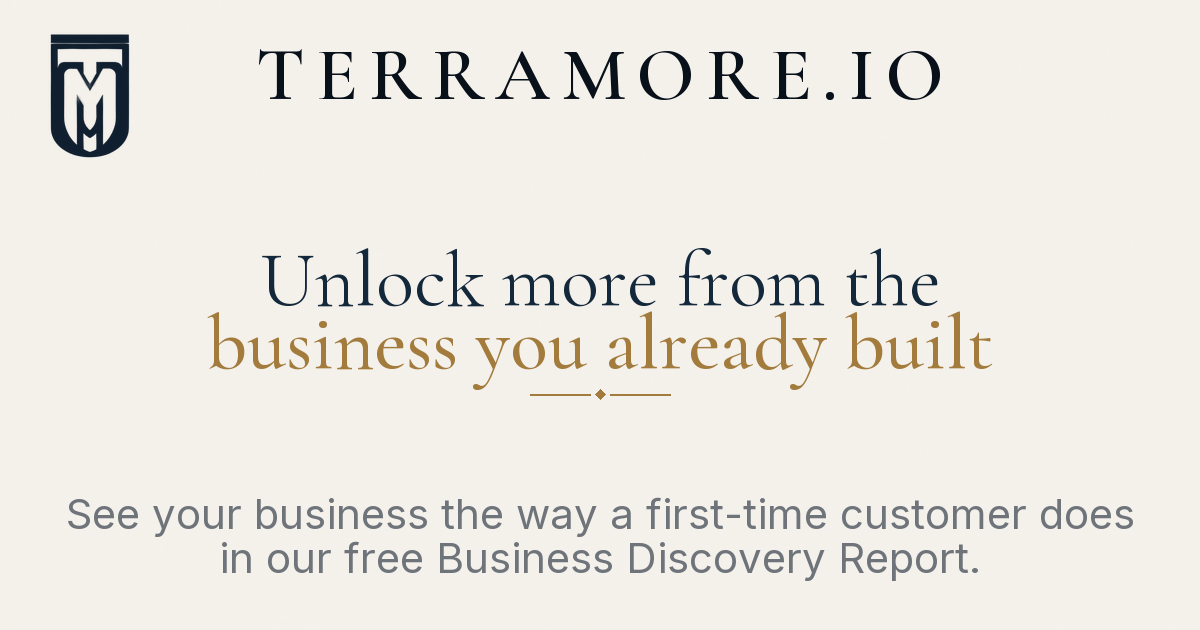
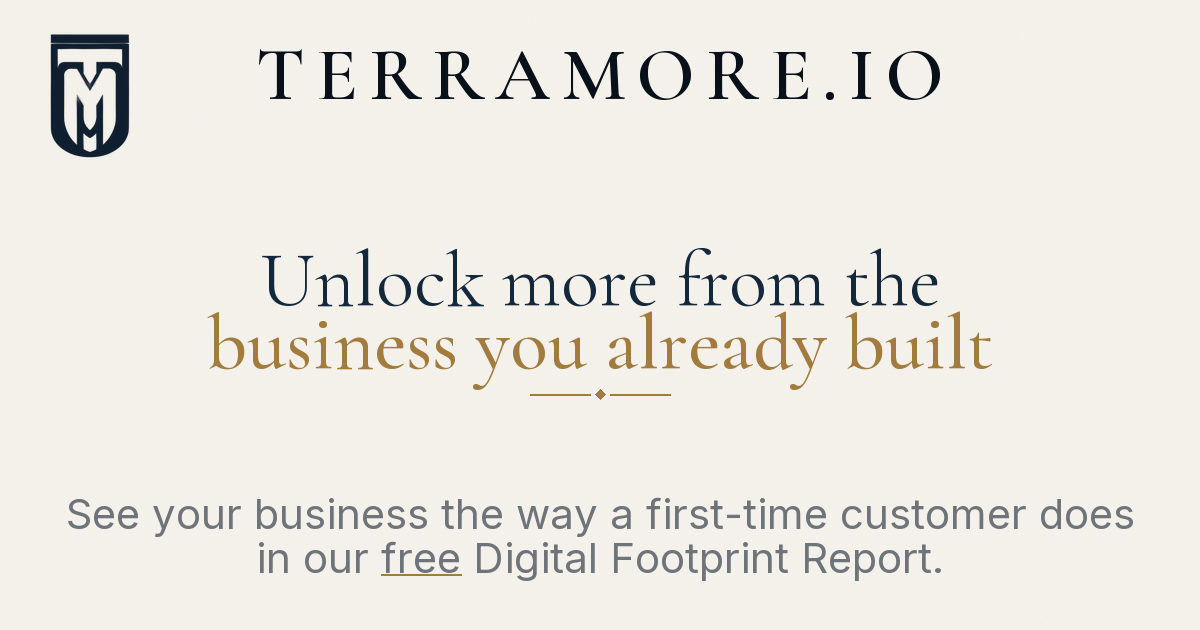
Clarify hero CTAs, smooth Slack channel swipes, and rename the share card report.
Locks horizontal channel swipes against page scroll, adds quiet carousel cues, and updates OG copy to Digital Footprint Report with a gold underline on free.

Changed region(s): [[0.185, 0.8444, 0.8017, 0.9349]]

diff --git a/components/hero-analytics.tsx b/components/hero-analytics.tsx
@@ -5,6 +5,8 @@ import {
   Calendar,
   Check,
   ChevronDown,
+  ChevronLeft,
+  ChevronRight,
   Clapperboard,
   Cpu,
   Dumbbell,
@@ -22,7 +24,7 @@ import {
   Users,
   type LucideIcon,
 } from "lucide-react"
-import { useEffect, useRef, useState, type ReactNode, type TouchEvent } from "react"
+import { useEffect, useRef, useState, type ReactNode } from "react"
 
 function usePrefersReducedMotion() {
   const [reduce, setReduce] = useState(false)
@@ -705,7 +707,9 @@ export function HeroAnalytics() {
   const extraMembers = Math.max(channel.members - 4, 0)
   const [menuOpen, setMenuOpen] = useState(false)
   const menuRef = useRef<HTMLDivElement>(null)
-  const touchStartX = useRef<number | null>(null)
+  const paneRef = useRef<HTMLDivElement>(null)
+  const touchStart = useRef<{ x: number; y: number } | null>(null)
+  const touchAxis = useRef<"h" | "v" | null>(null)
 
   const reduce = usePrefersReducedMotion()
   const [cursor, setCursor] = useState<RevealCursor>(() =>
@@ -785,20 +789,57 @@ export function HeroAnalytics() {
     setActive(CHANNELS[next].id)
   }
 
-  const onTouchStart = (event: TouchEvent) => {
-    touchStartX.current = event.changedTouches[0]?.clientX ?? null
-  }
+  // Lock page scroll while a horizontal channel swipe is in progress.
+  useEffect(() => {
+    const el = paneRef.current
+    if (!el) return
 
-  const onTouchEnd = (event: TouchEvent) => {
-    const start = touchStartX.current
-    touchStartX.current = null
-    if (start === null) return
-    const end = event.changedTouches[0]?.clientX
-    if (end === undefined) return
-    const delta = end - start
-    if (Math.abs(delta) < SWIPE_THRESHOLD) return
-    goChannel(delta < 0 ? 1 : -1)
-  }
+    const onStart = (event: globalThis.TouchEvent) => {
+      const touch = event.changedTouches[0]
+      if (!touch) return
+      touchStart.current = { x: touch.clientX, y: touch.clientY }
+      touchAxis.current = null
+    }
+
+    const onMove = (event: globalThis.TouchEvent) => {
+      const start = touchStart.current
+      const touch = event.touches[0]
+      if (!start || !touch) return
+      const dx = touch.clientX - start.x
+      const dy = touch.clientY - start.y
+      if (!touchAxis.current) {
+        if (Math.abs(dx) < 8 && Math.abs(dy) < 8) return
+        touchAxis.current = Math.abs(dx) > Math.abs(dy) ? "h" : "v"
+      }
+      if (touchAxis.current === "h") {
+        event.preventDefault()
+      }
+    }
+
+    const onEnd = (event: globalThis.TouchEvent) => {
+      const start = touchStart.current
+      const touch = event.changedTouches[0]
+      const axis = touchAxis.current
+      touchStart.current = null
+      touchAxis.current = null
+      if (!start || !touch || axis !== "h") return
+      const dx = touch.clientX - start.x
+      if (Math.abs(dx) < SWIPE_THRESHOLD) return
+      const next = (activeIndex + (dx < 0 ? 1 : -1) + CHANNELS.length) % CHANNELS.length
+      setActive(CHANNELS[next].id)
+    }
+
+    el.addEventListener("touchstart", onStart, { passive: true })
+    el.addEventListener("touchmove", onMove, { passive: false })
+    el.addEventListener("touchend", onEnd, { passive: true })
+    el.addEventListener("touchcancel", onEnd, { passive: true })
+    return () => {
+      el.removeEventListener("touchstart", onStart)
+      el.removeEventListener("touchmove", onMove)
+      el.removeEventListener("touchend", onEnd)
+      el.removeEventListener("touchcancel", onEnd)
+    }
+  }, [activeIndex])
 
   return (
     <div className="relative w-full" data-hero-analytics>
@@ -895,20 +936,58 @@ export function HeroAnalytics() {
               </div>
             </div>
 
-            <div
-              className="min-h-0 flex-1 overflow-hidden px-4 py-4 md:px-6 md:py-5"
-              onTouchStart={onTouchStart}
-              onTouchEnd={onTouchEnd}
-            >
-              <div className="flex flex-col gap-5">
-                {channel.messages.map((message, index) => {
-                  const phase = messagePhase(cursor, index)
-                  if (phase === null) return null
-                  return (
-                    <SlackMessage key={`${channel.id}-${index}`} message={message} phase={phase} />
-                  )
-                })}
+            <div className="relative min-h-0 flex-1">
+              <div
+                ref={paneRef}
+                className="h-full overflow-hidden px-4 py-4 md:px-6 md:py-5"
+              >
+                <div className="flex flex-col gap-5">
+                  {channel.messages.map((message, index) => {
+                    const phase = messagePhase(cursor, index)
+                    if (phase === null) return null
+                    return (
+                      <SlackMessage key={`${channel.id}-${index}`} message={message} phase={phase} />
+                    )
+                  })}
+                </div>
               </div>
+
+              {/* Mobile: quiet horizontal-carousel cues without cluttering the Slack look. */}
+              <div className="pointer-events-none absolute inset-y-0 left-0 flex items-center md:hidden">
+                <button
+                  type="button"
+                  aria-label="Previous channel"
+                  onClick={() => goChannel(-1)}
+                  className="pointer-events-auto ml-1 rounded-full bg-white/80 p-1 text-slate-400 shadow-sm ring-1 ring-black/[0.04] backdrop-blur-sm"
+                >
+                  <ChevronLeft className="h-4 w-4" />
+                </button>
+              </div>
+              <div className="pointer-events-none absolute inset-y-0 right-0 flex items-center md:hidden">
+                <button
+                  type="button"
+                  aria-label="Next channel"
+                  onClick={() => goChannel(1)}
+                  className="pointer-events-auto mr-1 rounded-full bg-white/80 p-1 text-slate-400 shadow-sm ring-1 ring-black/[0.04] backdrop-blur-sm"
+                >
+                  <ChevronRight className="h-4 w-4" />
+                </button>
+              </div>
+            </div>
+
+            <div className="flex shrink-0 items-center justify-center gap-1.5 border-t border-black/[0.04] py-2.5 md:hidden">
+              {CHANNELS.map((item) => (
+                <button
+                  key={item.id}
+                  type="button"
+                  aria-label={`Show #${item.label}`}
+                  aria-current={item.id === active ? "true" : undefined}
+                  onClick={() => setActive(item.id)}
+                  className={`h-1.5 rounded-full transition-all ${
+                    item.id === active ? "w-4 bg-brand" : "w-1.5 bg-slate-300"
+                  }`}
+                />
+              ))}
             </div>
           </div>
         </div>

diff --git a/app/page.tsx b/app/page.tsx
@@ -86,7 +86,7 @@ export default function TerramoreHomepage() {
                 <span className="text-gold">business you already built.</span>
               </h1>
               <p className="mx-auto mt-5 max-w-[20.5rem] text-center text-[16px] font-medium leading-[1.4] text-ink sm:max-w-[26rem] md:mt-8 md:max-w-[626px] md:text-[20px] md:leading-[30px]">
-                We find where the business already wins, then add marketing and sales so more revenue shows up.
+                We find where the business already wins, then add marketing and sales to get more customers and grow your revenue.
               </p>
               <div className="mt-6 flex flex-col items-center md:mt-8">
                 <Link
@@ -95,13 +95,12 @@ export default function TerramoreHomepage() {
                 >
                   Let&apos;s talk
                 </Link>
-                <p className="mt-2.5 text-center text-[13px] font-medium text-ink/45">
-                  Free 30-minute call.{" "}
-                  <ReportPopupLink
-                    label="Or get a free Digital Footprint report"
-                    className="underline-offset-4 hover:text-ink hover:underline"
-                  />
-                </p>
+                <div className="mt-2.5 flex flex-col items-center gap-1 text-center text-[13px] font-medium text-ink/45">
+                  <p>Free 30-minute call.</p>
+                  <ReportPopupLink className="text-[13px] font-medium text-ink/45 underline-offset-4 hover:text-ink">
+                    Or tap for a free Digital Footprint report
+                  </ReportPopupLink>
+                </div>
                 <div className="mt-2.5">
                   <G2Rating rating="4.5" />
                 </div>

diff --git a/components/report-popup.tsx b/components/report-popup.tsx
@@ -1,6 +1,6 @@
 "use client"
 
-import { useEffect, useRef, useState } from "react"
+import { useEffect, useRef, useState, type ReactNode } from "react"
 import { createPortal } from "react-dom"
 import { ReportForm, type ReportAnswers } from "@/components/report-form"
 
@@ -159,9 +159,11 @@ export function ReportPopup({ open, onClose }: { open: boolean; onClose: () => v
 
 export function ReportPopupLink({
   label = "Or get a free Digital Footprint report",
+  children,
   className = "text-[14px] font-medium text-ink/50 underline-offset-4 hover:text-ink hover:underline",
 }: {
   label?: string
+  children?: ReactNode
   className?: string
 }) {
   const [open, setOpen] = useState(false)
@@ -169,7 +171,7 @@ export function ReportPopupLink({
   return (
     <>
       <button type="button" onClick={() => setOpen(true)} className={className}>
-        {label}
+        {children ?? label}
       </button>
       <ReportPopup open={open} onClose={() => setOpen(false)} />
     </>

diff --git a/DEVELOPMENT_LOG.md b/DEVELOPMENT_LOG.md
@@ -1,5 +1,16 @@
 # Development Log - Terramore Website
 
+## 2026-09-14 — Hero CTA clarity + Slack swipe + share card rename
+
+- Hero subhead: "…to get more customers and grow your revenue."
+- Under Let's talk: two plain lines — "Free 30-minute call." and "Or tap for a free Digital Footprint report" (opens report popup). Gold underline on "free" is share-card only, not on-site.
+- Slack channel carousel (mobile): axis-aware touch lock so horizontal swipes don't fight page scroll; quiet chevrons + dots as carousel cues.
+- OG share card copy: "Digital Footprint Report"; gold underline under "free" in the support line. Asset: `/share/terramore-share-v2-og.png`.
+
+## 2026-09-14 — Hero subhead reword
+
+- Hero support line now: "We find where the business already wins, then add marketing and sales to grow your revenue." (dropped "shows up" / "reaches you").
+
 ## 2026-09-14 — Mobile menu Terramore copy + Log in
 
 - Restored Terramore mobile labels: Solutions / Integrations / More (not Lindy flat Pricing/Security/Enterprise rows). All chevron rows accordion with icon subitems. Log in moved out of the header bar to the top of the open menu in brand blue.
